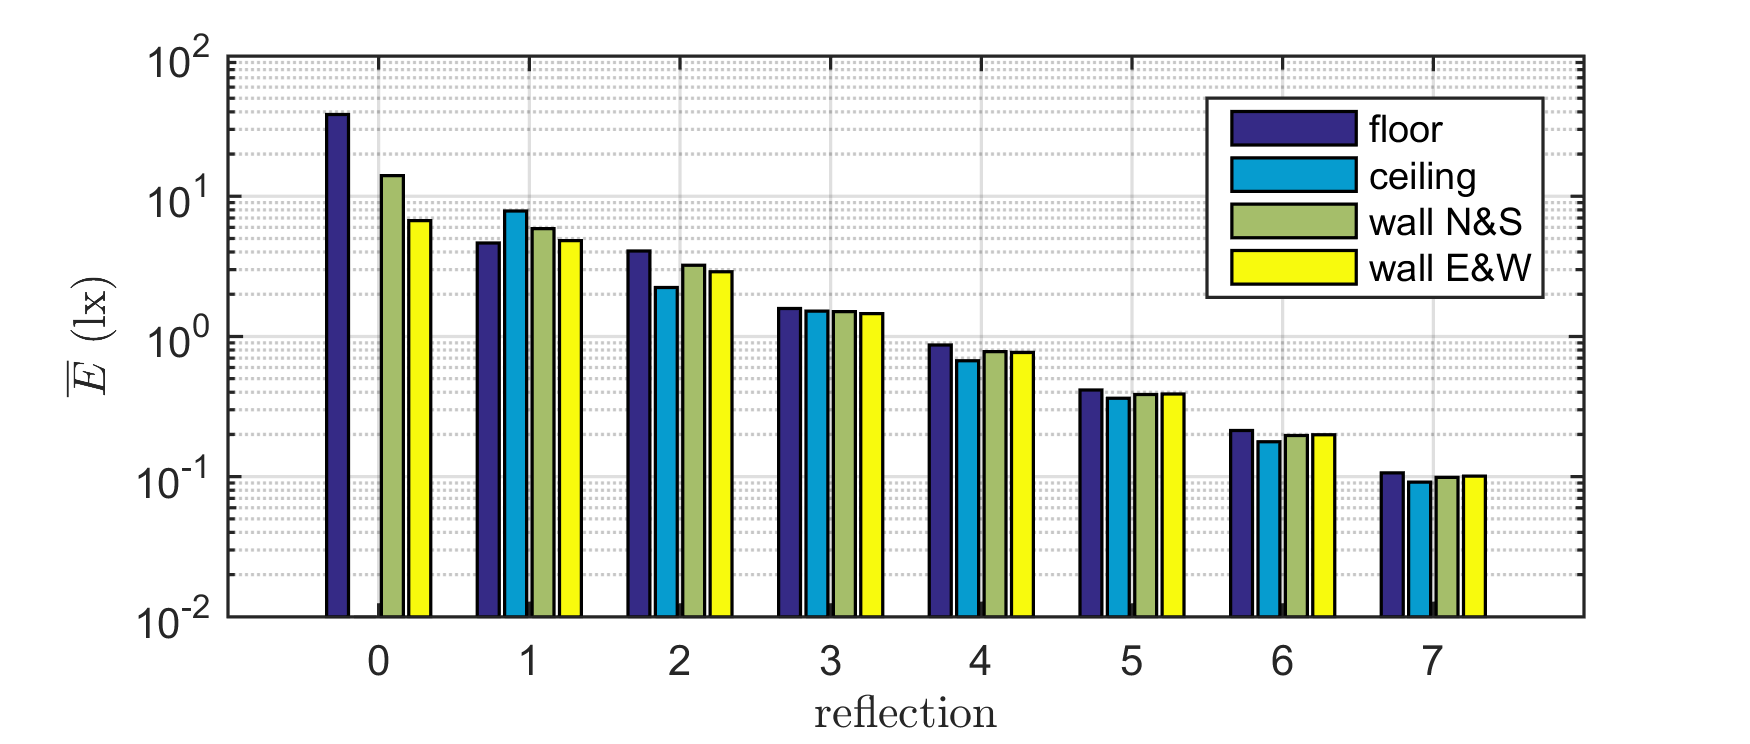
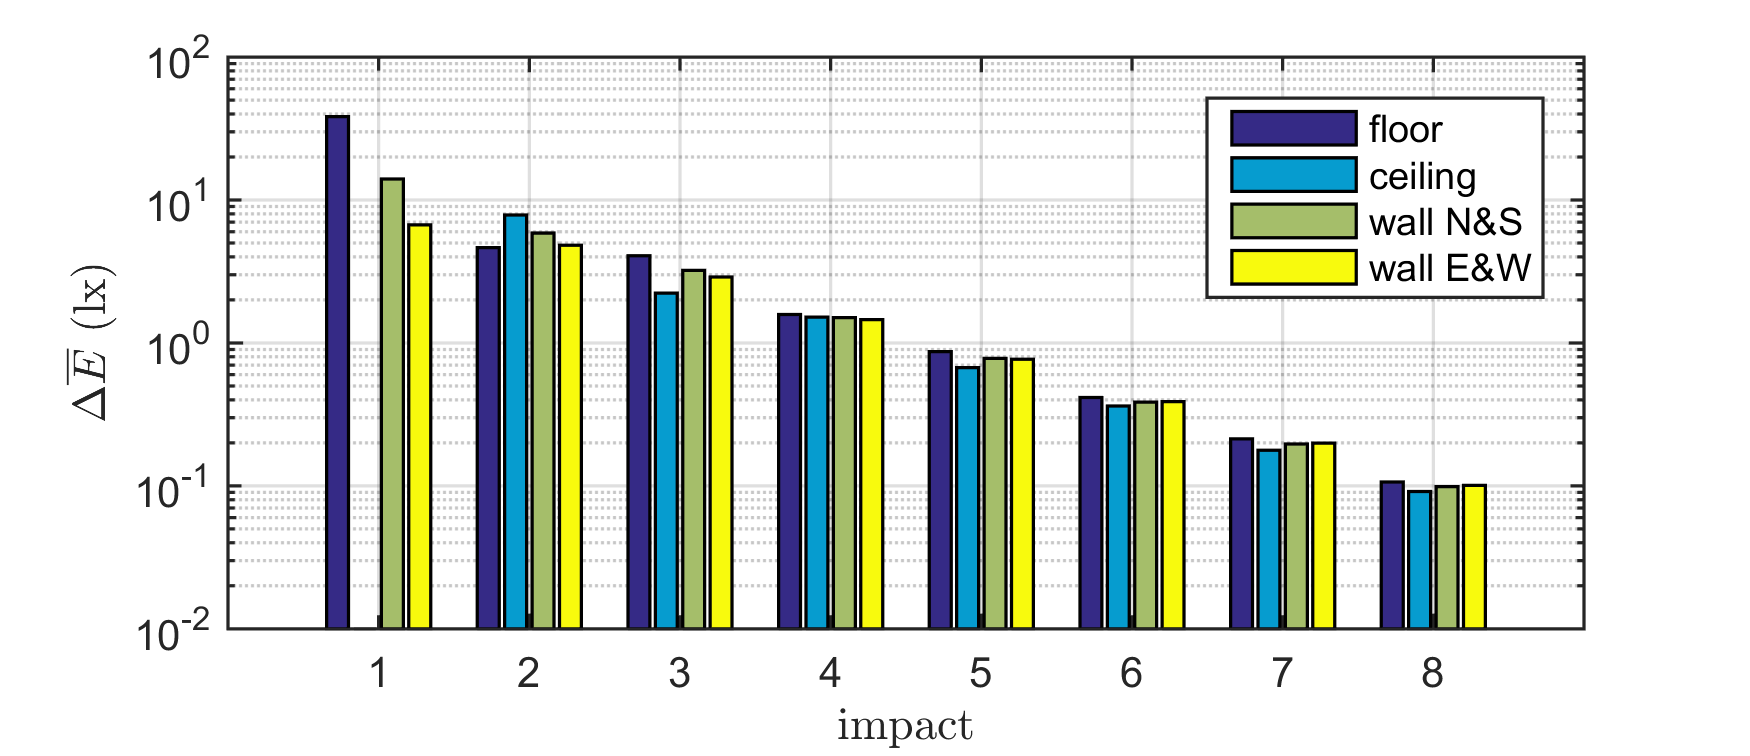
EPE2016: - vytvoren obrazek s rozlozenim osvetlenosti pri jednom svitidle - opraven obrazek s prirustky odrazu

diff --git a/EPE2016/svitidlaMaticeRastrTEST.m b/EPE2016/svitidlaMaticeRastrTEST.m
@@ -550,6 +550,7 @@ contour(mstn.bx,mstn.by,vysl.ME,'ShowText','on');
 xlabel('x (m)');
 ylabel('y (m)');
 zlabel('E (lx)');
+grid on;
 
 figure(2)
 plot(svt.x, svt.y, 'o', 'MarkerSize', 10, 'LineWidth', 2, 'MarkerFaceColor', 'y', 'MarkerEdgeColor', 'k');
@@ -570,10 +571,10 @@ strop.FI = sum(strop.fiOdr, 2)/mstn.x/mstn.y;
 % stenaV.FI = log10(stenaV.FI);
 % stenaZ.FI = log10(stenaZ.FI);
 % strop.FI = log10(strop.FI);
-b = bar((0:(mstn.Nodr-1)), [podlaha.FI, strop.FI, stenaS.FI, stenaV.FI]);
+b = bar((1:(mstn.Nodr)), [podlaha.FI, strop.FI, stenaS.FI, stenaV.FI]);
 g = gca;
 g.YScale = 'log';
 grid on;
-ylabel('$$\overline{E}$$ (lx)','interpreter','latex');
-xlabel('reflection','interpreter','latex');
+ylabel('$$\Delta\overline{E}$$ (lx)','interpreter','latex');
+xlabel('impact','interpreter','latex');
 legend('floor', 'ceiling', 'wall N&S', 'wall E&W')
